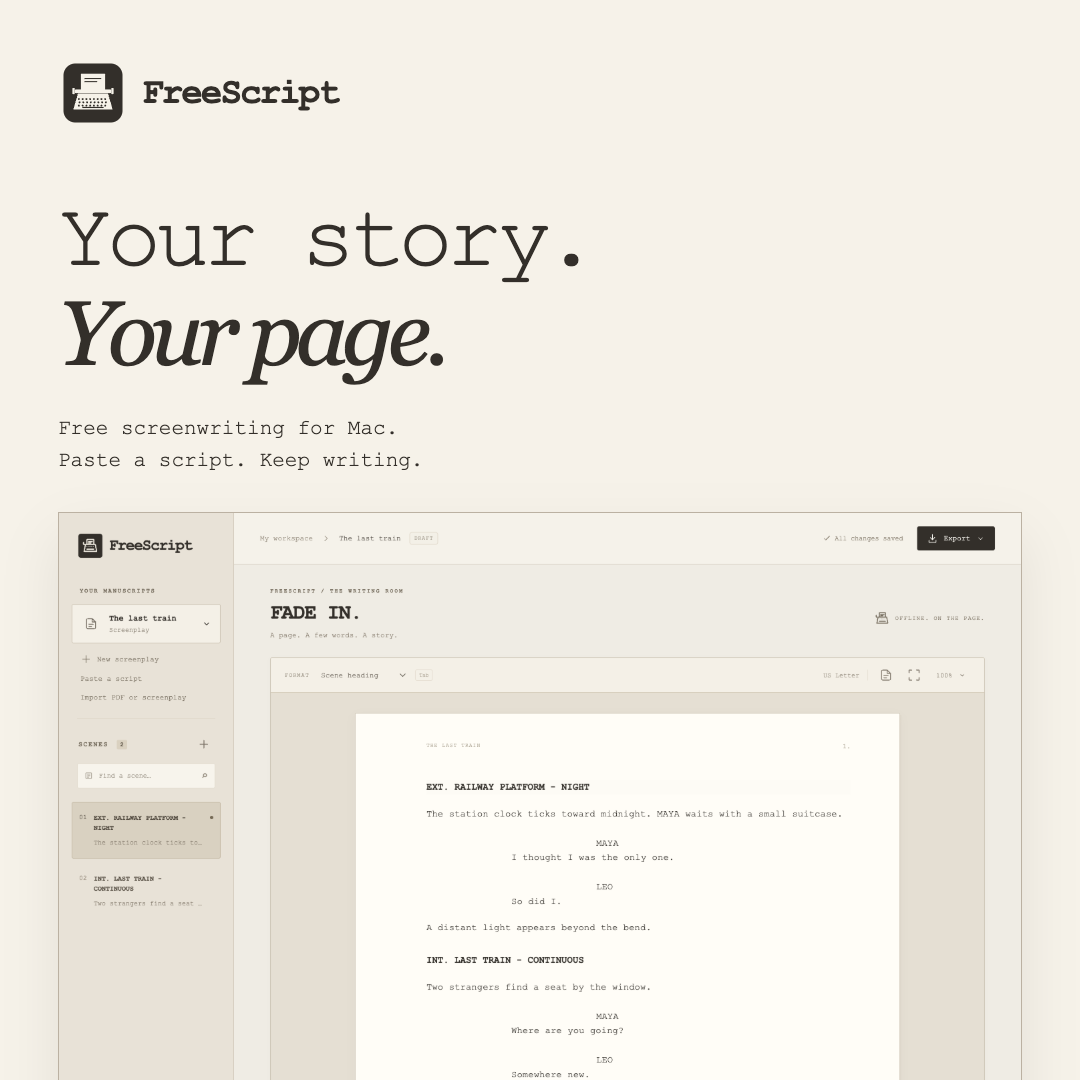
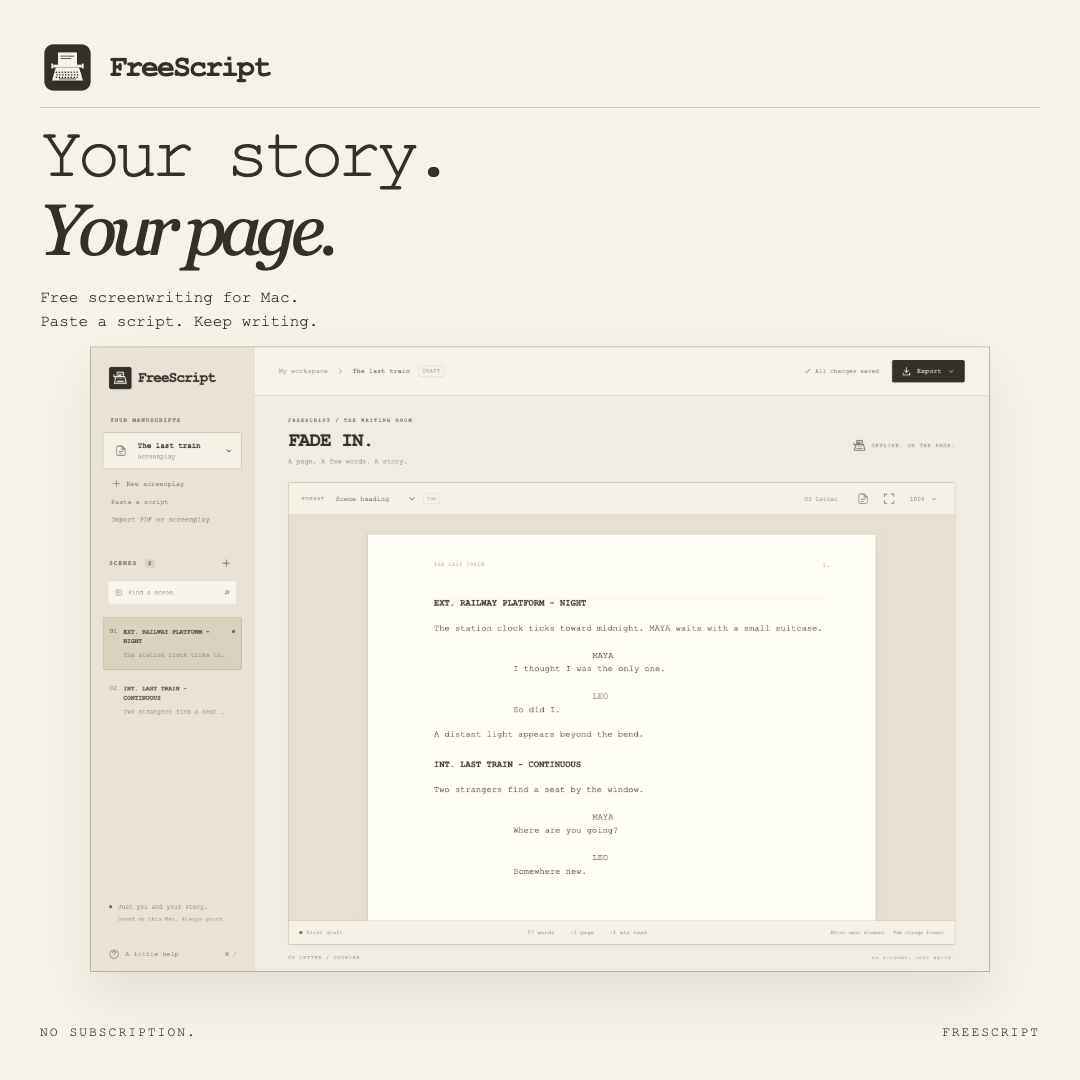
Keep the complete product capture inside the square social layout

diff --git a/branding/promotional/social-square.html b/branding/promotional/social-square.html
@@ -1,1 +1,1 @@
-<!doctype html><html lang="en"><meta charset="utf-8"><title>FreeScript — social-square</title><style>*{box-sizing:border-box}html,body{margin:0;width:100%;height:100%;color:#342f29;background:#f7f2e8}body{font-family:'Courier New',Courier,monospace}.label{font-size:15px;letter-spacing:3px;font-weight:bold;text-transform:uppercase}.logo{display:flex;align-items:center;gap:14px;font-size:36px;font-weight:bold;letter-spacing:-2px}.logo svg{width:70px;height:70px}h1,h2,p{margin:0}h1{font-size:94px;line-height:1.02;font-weight:normal;letter-spacing:-6px}h2{font-size:49px;line-height:1.12;font-weight:normal;letter-spacing:-2px}.serif{font-family:Georgia,serif;font-style:italic}.rule{height:1px;background:#342f29;opacity:.23}.pill{display:inline-flex;border:1px solid #342f29;padding:15px 22px;font-size:20px}.foot{font-size:15px;letter-spacing:2px}.shot{width:100%;border:1px solid #bdb1a0;box-shadow:0 25px 55px #342f291a}.small{font-size:21px;line-height:1.55}.top{display:flex;align-items:center;justify-content:space-between}body{padding:58px;display:flex;flex-direction:column;gap:25px}h1{font-size:91px;margin-top:16px}.shot{margin-top:10px}.foot{margin-top:auto;display:flex;justify-content:space-between}</style><body><div class="logo"><svg xmlns="http://www.w3.org/2000/svg" viewBox="0 0 1024 1024" role="img" aria-label="FreeScript typewriter mark"><rect x="80" y="80" width="864" height="864" rx="175" fill="#342f29"/><g transform="translate(0 1024) scale(1 -1)" fill="#f7f2e8"><rect x="335" y="540" width="354" height="254" rx="12"/><rect x="245" y="510" width="534" height="55" rx="18"/><rect x="210" y="495" width="35" height="90" rx="10"/><rect x="779" y="495" width="35" height="90" rx="10"/><path d="M293 505H731L800 270H224Z"/></g><g fill="#342f29"><circle cx="305.5" cy="600.5" r="13.5"/><circle cx="360.5" cy="600.5" r="13.5"/><circle cx="415.5" cy="600.5" r="13.5"/><circle cx="470.5" cy="600.5" r="13.5"/><circle cx="525.5" cy="600.5" r="13.5"/><circle cx="580.5" cy="600.5" r="13.5"/><circle cx="635.5" cy="600.5" r="13.5"/><circle cx="690.5" cy="600.5" r="13.5"/><circle cx="315.5" cy="648.5" r="13.5"/><circle cx="370.5" cy="648.5" r="13.5"/><circle cx="425.5" cy="648.5" r="13.5"/><circle cx="480.5" cy="648.5" r="13.5"/><circle cx="535.5" cy="648.5" r="13.5"/><circle cx="590.5" cy="648.5" r="13.5"/><circle cx="645.5" cy="648.5" r="13.5"/><circle cx="700.5" cy="648.5" r="13.5"/><circle cx="305.5" cy="696.5" r="13.5"/><circle cx="360.5" cy="696.5" r="13.5"/><circle cx="415.5" cy="696.5" r="13.5"/><circle cx="470.5" cy="696.5" r="13.5"/><circle cx="525.5" cy="696.5" r="13.5"/><circle cx="580.5" cy="696.5" r="13.5"/><circle cx="635.5" cy="696.5" r="13.5"/><circle cx="690.5" cy="696.5" r="13.5"/><rect x="355" y="715" width="314" height="17" rx="7"/><rect x="388" y="293" width="244" height="15"/><rect x="388" y="338" width="185" height="15"/></g></svg><span>FreeScript</span></div><div class="rule"></div><h1>Your story.<br><span class="serif">Your page.</span></h1><p class="small">Free screenwriting for Mac.<br>Paste a script. Keep writing.</p><img class="shot" src="../screenshots/formatted-script.png" alt="Formatted sample screenplay"><footer class="foot"><span>NO SUBSCRIPTION.</span><span>FREESCRIPT</span></footer></body></html>
+<!doctype html><html lang="en"><meta charset="utf-8"><title>FreeScript — social-square</title><style>*{box-sizing:border-box}html,body{margin:0;width:100%;height:100%;color:#342f29;background:#f7f2e8}body{font-family:'Courier New',Courier,monospace}.label{font-size:15px;letter-spacing:3px;font-weight:bold;text-transform:uppercase}.logo{display:flex;align-items:center;gap:14px;font-size:36px;font-weight:bold;letter-spacing:-2px}.logo svg{width:70px;height:70px}h1,h2,p{margin:0}h1{font-size:94px;line-height:1.02;font-weight:normal;letter-spacing:-6px}h2{font-size:49px;line-height:1.12;font-weight:normal;letter-spacing:-2px}.serif{font-family:Georgia,serif;font-style:italic}.rule{height:1px;background:#342f29;opacity:.23}.pill{display:inline-flex;border:1px solid #342f29;padding:15px 22px;font-size:20px}.foot{font-size:15px;letter-spacing:2px}.shot{width:100%;border:1px solid #bdb1a0;box-shadow:0 25px 55px #342f291a}.small{font-size:21px;line-height:1.55}.top{display:flex;align-items:center;justify-content:space-between}body{padding:40px;display:flex;flex-direction:column;gap:12px}.logo{font-size:30px}.logo svg{width:55px;height:55px}h1{font-size:72px;margin-top:0}.small{font-size:16px}.shot{width:900px;margin-top:0;align-self:center}.foot{margin-top:auto;display:flex;justify-content:space-between;font-size:13px}</style><body><div class="logo"><svg xmlns="http://www.w3.org/2000/svg" viewBox="0 0 1024 1024" role="img" aria-label="FreeScript typewriter mark"><rect x="80" y="80" width="864" height="864" rx="175" fill="#342f29"/><g transform="translate(0 1024) scale(1 -1)" fill="#f7f2e8"><rect x="335" y="540" width="354" height="254" rx="12"/><rect x="245" y="510" width="534" height="55" rx="18"/><rect x="210" y="495" width="35" height="90" rx="10"/><rect x="779" y="495" width="35" height="90" rx="10"/><path d="M293 505H731L800 270H224Z"/></g><g fill="#342f29"><circle cx="305.5" cy="600.5" r="13.5"/><circle cx="360.5" cy="600.5" r="13.5"/><circle cx="415.5" cy="600.5" r="13.5"/><circle cx="470.5" cy="600.5" r="13.5"/><circle cx="525.5" cy="600.5" r="13.5"/><circle cx="580.5" cy="600.5" r="13.5"/><circle cx="635.5" cy="600.5" r="13.5"/><circle cx="690.5" cy="600.5" r="13.5"/><circle cx="315.5" cy="648.5" r="13.5"/><circle cx="370.5" cy="648.5" r="13.5"/><circle cx="425.5" cy="648.5" r="13.5"/><circle cx="480.5" cy="648.5" r="13.5"/><circle cx="535.5" cy="648.5" r="13.5"/><circle cx="590.5" cy="648.5" r="13.5"/><circle cx="645.5" cy="648.5" r="13.5"/><circle cx="700.5" cy="648.5" r="13.5"/><circle cx="305.5" cy="696.5" r="13.5"/><circle cx="360.5" cy="696.5" r="13.5"/><circle cx="415.5" cy="696.5" r="13.5"/><circle cx="470.5" cy="696.5" r="13.5"/><circle cx="525.5" cy="696.5" r="13.5"/><circle cx="580.5" cy="696.5" r="13.5"/><circle cx="635.5" cy="696.5" r="13.5"/><circle cx="690.5" cy="696.5" r="13.5"/><rect x="355" y="715" width="314" height="17" rx="7"/><rect x="388" y="293" width="244" height="15"/><rect x="388" y="338" width="185" height="15"/></g></svg><span>FreeScript</span></div><div class="rule"></div><h1>Your story.<br><span class="serif">Your page.</span></h1><p class="small">Free screenwriting for Mac.<br>Paste a script. Keep writing.</p><img class="shot" src="../screenshots/formatted-script.png" alt="Formatted sample screenplay"><footer class="foot"><span>NO SUBSCRIPTION.</span><span>FREESCRIPT</span></footer></body></html>
